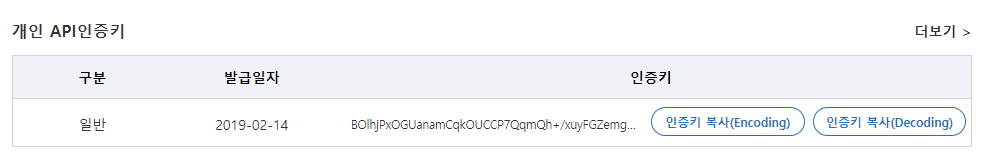
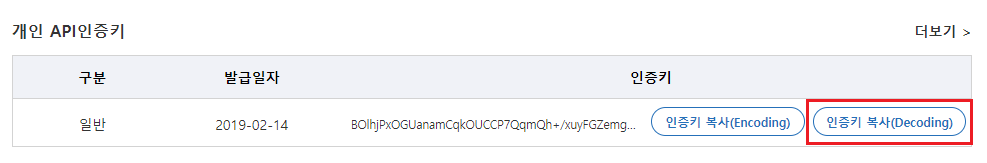
공공데이터포털 오픈 API는 웹 개발자를 괴롭혀 (feat. XML)

Changed region(s): [[0.7903, 0.5828, 1.0, 0.8896]]

diff --git a/source/_posts/data-go-openapi.md b/source/_posts/data-go-openapi.md
@@ -1,5 +1,5 @@
 ---
-title: 공공데이터포털 오픈 API는 웹 개발자를 괴롭혀(feat. XML)
+title: 공공데이터포털 오픈 API는 웹 개발자를 괴롭혀 (feat. XML)
 date: 2023-05-29
 ---
 
@@ -12,10 +12,10 @@ date: 2023-05-29
 #### 간헐적 SERVICE_KEY_IS_NOT_REGISTERED_ERROR 오류
 ![](/images/posts/data-go-openapi/02.png)
 
-공공데이터 포털의 자주하는 질문 중 서비스 오류에 대한 내용으로 SERVICE_KEY_IS_NOT_REGISTERED_ERROR 오류에 대한 원인을 간단하게 소개하고 있다. 잘못된 인증키를 넣어서 호출하였거나 인증 기관 서버로 동기화되지 않아서 발생한다고 되어있다. 하지만, 위에서 확인할 수 있듯이 내가 사용하는 인증키 자체는 오래전에 발급한 것으로 (보안 상 문제가 되는 건 넘어가도록 하자...) 동기화되지 않았을 가능성은 지극히 적다. 해당 인증키를 사용하여 정상적으로 OpenAPI를 호출할 수 있었음에도 불구하고 몇 초 만에 인증키가 올바르지 않다는 SERVICE_KEY_IS_NOT_REGISTERED_ERROR 오류가 간헐적으로 발생하기도 한다.
+공공데이터 포털의 자주하는 질문 중 서비스 오류에 대한 내용으로 `SERVICE_KEY_IS_NOT_REGISTERED_ERROR` 오류에 대한 원인을 간단하게 소개하고 있다. 잘못된 인증키를 넣어서 호출하였거나 인증 기관 서버로 동기화되지 않아서 발생한다고 되어있다. 해당 인증키를 사용하여 정상적으로 OpenAPI를 호출할 수 있었음에도 불구하고 몇 초 만에 인증키가 올바르지 않다는 오류가 간헐적으로 발생하기도 한다.
 
 #### 통일되지 않은 오픈 API 참고 문서
-오픈 API에 대한 참고 문서의 형식을 강제하지 않는 결과로 많은 기업에서 사용하지 않는 확장자인 .hwp로 작성되어 공유되는 경우가 많다. 그로 인해 웹 개발자들은 한글 문서를 사용하지 않음에도 불구하고 한글 문서를 열 수 있는 뷰어를 설치해야만 한다. 공공데이터포털의 오픈 API 중에는 Swagger UI 기반의 OpenAPI 명세서를 제공하기도 한다.
+오픈 API에 대한 참고 문서의 형식을 강제하지 않는 결과로 많은 `기업에서 사용하지 않는 확장자인 .hwp로 작성되어 공유`되는 경우가 많다. 그로 인해 웹 개발자들은 한글 문서를 사용하지 않음에도 불구하고 한글 문서를 열 수 있는 뷰어를 설치해야만 한다. 공공데이터포털의 오픈 API 중에는 `Swagger UI 기반의 OpenAPI 명세서를 제공`하기도 한다.
 
 ![](/images/posts/data-go-openapi/03.png)
 
@@ -25,7 +25,7 @@ date: 2023-05-29
 #### 게이트웨이 방식 오픈 API
 ![](/images/posts/data-go-openapi/04.png)
 
-공공데이터포털의 게이트방식 오픈 API는 엔드포인트가 `apis.data.go.kr`와 같이 구성되며 위에서 확인할 수 있듯이 게이트웨이에서 문제가 발생하면 오픈 API가 JSON 타입의 응답 결과를 지원하더라도 XML로만 출력된다는 제약사항이 있다. 이러한 제약사항을 고려하지 않고 응답결과를 JSON으로 오해하고 코드를 작성한다면 아래와 같이 오류가 발생할 수 있다. 심지어 HTTP 응답 코드는 200인데 응답 내용에 오류 여부로 내려온다.
+공공데이터포털의 게이트방식 오픈 API는 엔드포인트가 `apis.data.go.kr`와 같이 구성되며 위에서 확인할 수 있듯이 게이트웨이에서 문제가 발생하면 오픈 API가 JSON 타입의 응답 결과를 지원하더라도 `XML로만 출력된다는 제약사항`이 있다. 이러한 제약사항을 고려하지 않고 응답결과를 JSON으로 오해하고 코드를 작성한다면 아래와 같이 오류가 발생할 수 있다. 심지어 HTTP 상태 코드가 200으로 응답되지만 `응답 결과에 오류에 대한 내용으로 제공한다는 점`으로 인해 HTTP 상태 코드를 통해서 1차적으로 구분할 수 없고 응답 바디를 무조건 확인해서 정상적인 호출인지 아닌지를 구별해야한다.
 
 ```java
 Unexpected exception thrown: net.minidev.json.parser.ParseException: Unexpected token <OpenAPI_ServiceResponse>
